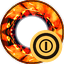
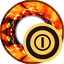
Portaler 1.0.3: bigger badge, previewed pin stays big while the line shows
- Category badge 20% bigger
- Pin sizes applied every frame in LateUpdate (the map only re-places pins occasionally)
- Previewed pin stays big as long as the fiery line is shown

Claude-Session: https://claude.ai/code/session_01TaQNmZp8Qu78ZCp4dJDXS3

Changed region(s): [[0.3438, 0.3438, 1.0, 1.0]]

diff --git a/src/PortalClient.cs b/src/PortalClient.cs
@@ -271,7 +271,6 @@ namespace Portaler
             if (_saved && Minimap.instance != null) { MapOffset(Minimap.instance) = _savedOffset; Minimap.instance.LargeZoom = _savedZoom; }
             _saved = false; _moving = false; _returning = false;
             StopGlow();
-            _bigId = ZDOID.None;
             SourceId = ZDOID.None;
             _sourceTransform = null;
             if (closeMap && Minimap.instance != null && Minimap.instance.m_mode == Minimap.MapMode.Large)
@@ -316,12 +315,11 @@ namespace Portaler
         private static PortalInfo _hoverPortal;
         private static float _hoverSince, _leftListAt;
         private static ZDOID _glowId = ZDOID.None;
-        private static ZDOID _bigId = ZDOID.None;
         private static Canvas _mapCanvas;
         private static readonly Dictionary<Minimap.PinData, float> PinScale = new Dictionary<Minimap.PinData, float>();
 
         /// <summary>
-        /// Called after the map placed its pins each frame. Our pins have a steady size:
+        /// Called every frame (LateUpdate, after the map updated). Our pins have a steady size:
         /// the previewed portal is drawn big (and stays big), a pin under the mouse grows a little.
         /// The size changes smoothly instead of the vanilla pulsing.
         /// </summary>
@@ -342,7 +340,7 @@ namespace Portaler
                 float target = 1f;
                 if (large && Active)
                 {
-                    if (kv.Key == _bigId) target = Plugin.PinSizePreview.Value;
+                    if (kv.Key == _glowId) target = Plugin.PinSizePreview.Value;
                     else if (RectTransformUtility.RectangleContainsScreenPoint(pin.m_uiElement, mouse, cam)) target = Plugin.PinSizeHover.Value;
                 }
                 else if (large && RectTransformUtility.RectangleContainsScreenPoint(pin.m_uiElement, mouse, cam)) target = Plugin.PinSizeHover.Value;
@@ -437,8 +435,7 @@ namespace Portaler
         private static void SetGlow(ZDOID id)
         {
             StopGlow();
-            _glowId = id;
-            _bigId = id; // stays big on the map until another portal is previewed or the list closes
+            _glowId = id; // the previewed pin stays big as long as the fiery line is shown
         }
 
         private static void StopGlow()

diff --git a/src/Plugin.cs b/src/Plugin.cs
@@ -15,7 +15,7 @@ namespace Portaler
     {
         public const string Guid = "nfp007.Portaler";
         public const string Name = "Portaler";
-        public const string Version = "1.0.2";
+        public const string Version = "1.0.3";
 
         internal static Plugin Instance;
         internal static ManualLogSource Log;
@@ -48,7 +48,7 @@ namespace Portaler
             HoverZoomMeters = Config.Bind("Map", "HoverZoomMeters", 1500f, "How much of the world the map shows around the portal (metres). The map only zooms in, never out.");
             HoverReturn = Config.Bind("Map", "HoverReturn", true, "When the mouse leaves the list, the map glides back to where it was (unless you move or zoom the map yourself).");
             HoverReturnDelay = Config.Bind("Map", "HoverReturnDelay", 5f, "Seconds the map stays on the previewed portal after the mouse leaves the list.");
-            PinSizePreview = Config.Bind("Map", "PinSizePreview", 1.6f, "Size of the previewed portal's pin on the map (1 = normal). It stays this big until you preview another portal or close the list.");
+            PinSizePreview = Config.Bind("Map", "PinSizePreview", 1.6f, "Size of the previewed portal's pin on the map (1 = normal). It stays this big as long as the fiery line is shown.");
             PinSizeHover = Config.Bind("Map", "PinSizeHover", 1.3f, "Size of a portal pin while the mouse is over it on the map (1 = normal).");
             HoverLine = Config.Bind("Map", "HoverLine", true, "Draw a fiery line from the portal you stand in to the previewed portal.");
             _harmony = new Harmony(Guid);
@@ -62,6 +62,20 @@ namespace Portaler
             {
                 PortalServer.Tick();
                 PortalClient.Tick();
+            }
+            catch (System.Exception e)
+            {
+                Log.LogError(e);
+            }
+        }
+
+        // The map only re-places its pins now and then, so pin sizes are applied every frame here.
+        private void LateUpdate()
+        {
+            try
+            {
+                PortalClient.HideForeignPins();
+                PortalClient.ScalePins();
             }
             catch (System.Exception e)
             {

diff --git a/tools/make_art.py b/tools/make_art.py
@@ -18,14 +18,14 @@ def pin(key):
     im = Image.new('RGBA', (S, S), (0, 0, 0, 0))
     im.alpha_composite(ring, (0, 0))
     if key:
-        D = 36           # badge diameter (more than half the pin, readable at map size)
+        D = 43           # badge diameter (two thirds of the pin, readable at map size)
         big = 4          # supersample the badge circle
         b = Image.new('RGBA', (D * big, D * big), (0, 0, 0, 0))
         d = ImageDraw.Draw(b)
         d.ellipse([2 * big, 2 * big, (D - 2) * big, (D - 2) * big], fill=(30, 20, 12, 255), outline=(255, 200, 90, 255), width=3 * big)
         b = b.resize((D, D), Image.LANCZOS)
-        icon = draw(key, 24)
-        b.alpha_composite(icon, ((D - 24) // 2, (D - 24) // 2))
+        icon = draw(key, 29)
+        b.alpha_composite(icon, ((D - 29) // 2, (D - 29) // 2))
         im.alpha_composite(b, (S - D, S - D))
     return im
 

diff --git a/src/Patches.cs b/src/Patches.cs
@@ -140,11 +140,7 @@ namespace Portaler
         [HarmonyPatch(typeof(Minimap), "UpdatePins")]
         private static class Minimap_UpdatePins
         {
-            private static void Postfix()
-            {
-                PortalClient.HideForeignPins();
-                PortalClient.ScalePins();
-            }
+            private static void Postfix() => PortalClient.HideForeignPins();
         }
     
         /// <summary>While typing in the search box the game must not react to keys (walking, map, chat...).</summary>

diff --git a/README.md b/README.md
@@ -69,7 +69,7 @@ Every feature says what is **🌐 shared** (the same for everybody on the server
 
 **10. Map pins**
 - Every portal gets a fiery ring pin with its name, and its category icon in a round badge at the lower right.
-- The previewed portal's pin is drawn bigger and stays big; a pin under the mouse grows a little, so icon and name are easy to read.
+- The previewed portal's pin is drawn bigger and stays big as long as the fiery line is shown; a pin under the mouse grows a little, so icon and name are easy to read.
 - Pins from other mods (for example automatic pin mods) that sit on a portal are hidden, so each portal shows just one icon.
 - 🌐 Shared: everybody sees the same pins, names and icons.
 
@@ -118,7 +118,7 @@ Config file: `BepInEx/config/nfp007.Portaler.cfg` (created on first start). `[Se
 | `[Map] HoverReturn` | `true` | When the mouse leaves the list, the map glides back to where it was (not if you moved or zoomed the map yourself). |
 | `[Map] HoverReturnDelay` | `5` | Seconds the map stays on the previewed portal before gliding back. |
 | `[Map] HoverLine` | `true` | Draw the fiery line from your portal to the previewed one. |
-| `[Map] PinSizePreview` | `1.6` | Size of the previewed portal's pin (1 = normal). Stays until you preview another portal or close the list. |
+| `[Map] PinSizePreview` | `1.6` | Size of the previewed portal's pin (1 = normal), as long as the fiery line is shown. |
 | `[Map] PinSizeHover` | `1.3` | Size of a portal pin while the mouse is over it on the map. |
 | `[Server] VanillaRestrictions` | `false` | `false` = no restrictions, everything travels through every portal. `true` = the game's own rules: no metals/ores through the wooden portal, and the world modifiers "no portals" and "no portals during boss fights" apply. |
 

diff --git a/package/Portaler/README.md b/package/Portaler/README.md
@@ -69,7 +69,7 @@ Every feature says what is **🌐 shared** (the same for everybody on the server
 
 **10. Map pins**
 - Every portal gets a fiery ring pin with its name, and its category icon in a round badge at the lower right.
-- The previewed portal's pin is drawn bigger and stays big; a pin under the mouse grows a little, so icon and name are easy to read.
+- The previewed portal's pin is drawn bigger and stays big as long as the fiery line is shown; a pin under the mouse grows a little, so icon and name are easy to read.
 - Pins from other mods (for example automatic pin mods) that sit on a portal are hidden, so each portal shows just one icon.
 - 🌐 Shared: everybody sees the same pins, names and icons.
 
@@ -118,7 +118,7 @@ Config file: `BepInEx/config/nfp007.Portaler.cfg` (created on first start). `[Se
 | `[Map] HoverReturn` | `true` | When the mouse leaves the list, the map glides back to where it was (not if you moved or zoomed the map yourself). |
 | `[Map] HoverReturnDelay` | `5` | Seconds the map stays on the previewed portal before gliding back. |
 | `[Map] HoverLine` | `true` | Draw the fiery line from your portal to the previewed one. |
-| `[Map] PinSizePreview` | `1.6` | Size of the previewed portal's pin (1 = normal). Stays until you preview another portal or close the list. |
+| `[Map] PinSizePreview` | `1.6` | Size of the previewed portal's pin (1 = normal), as long as the fiery line is shown. |
 | `[Map] PinSizeHover` | `1.3` | Size of a portal pin while the mouse is over it on the map. |
 | `[Server] VanillaRestrictions` | `false` | `false` = no restrictions, everything travels through every portal. `true` = the game's own rules: no metals/ores through the wooden portal, and the world modifiers "no portals" and "no portals during boss fights" apply. |
 

diff --git a/CHANGELOG.md b/CHANGELOG.md
@@ -1,5 +1,10 @@
 # Changelog
 
+## 1.0.3
+- Category badge on the map pin 20% bigger.
+- Fixed: the previewed pin got small again right away. It now stays big as long as the fiery line is shown.
+- Pin sizes are applied every frame, so hovering a pin on the map reacts smoothly.
+
 ## 1.0.2
 - Category icon back in the lower right corner of the map pin, as a big round badge.
 - Steady pin sizes: no more pulsing. The previewed portal's pin is bigger and stays big; a pin under the mouse grows a little.

diff --git a/package/Portaler/CHANGELOG.md b/package/Portaler/CHANGELOG.md
@@ -1,5 +1,10 @@
 # Changelog
 
+## 1.0.3
+- Category badge on the map pin 20% bigger.
+- Fixed: the previewed pin got small again right away. It now stays big as long as the fiery line is shown.
+- Pin sizes are applied every frame, so hovering a pin on the map reacts smoothly.
+
 ## 1.0.2
 - Category icon back in the lower right corner of the map pin, as a big round badge.
 - Steady pin sizes: no more pulsing. The previewed portal's pin is bigger and stays big; a pin under the mouse grows a little.
